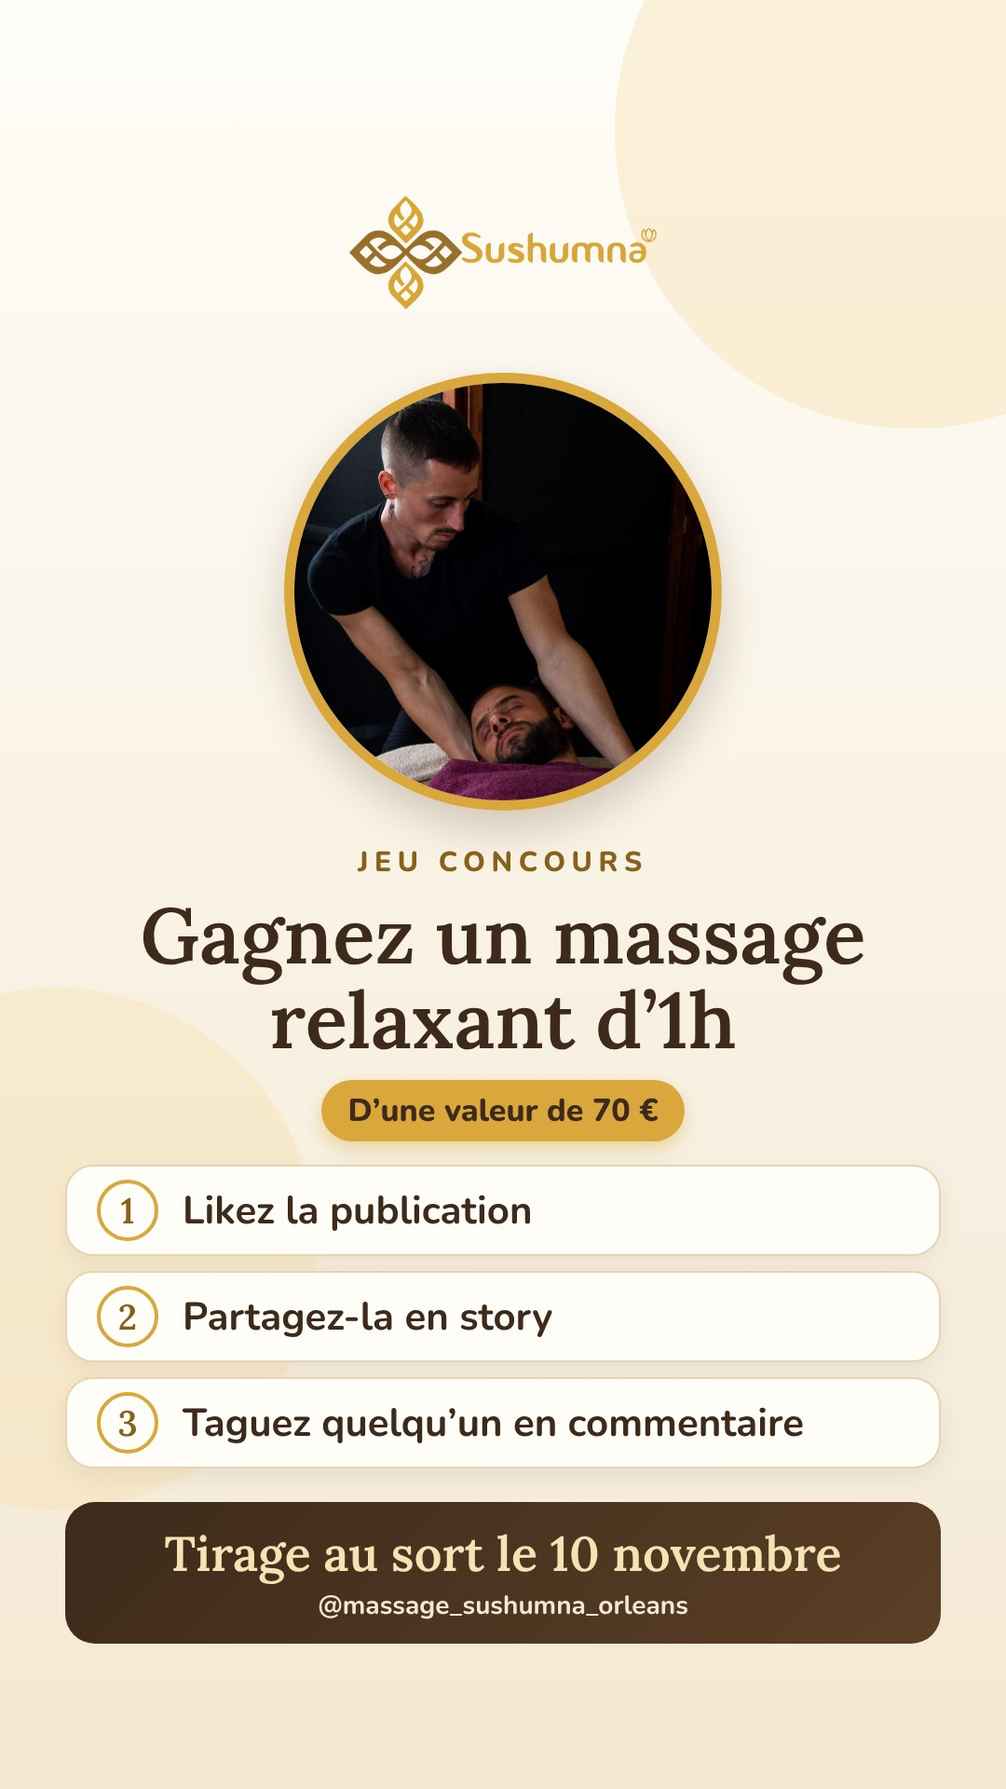
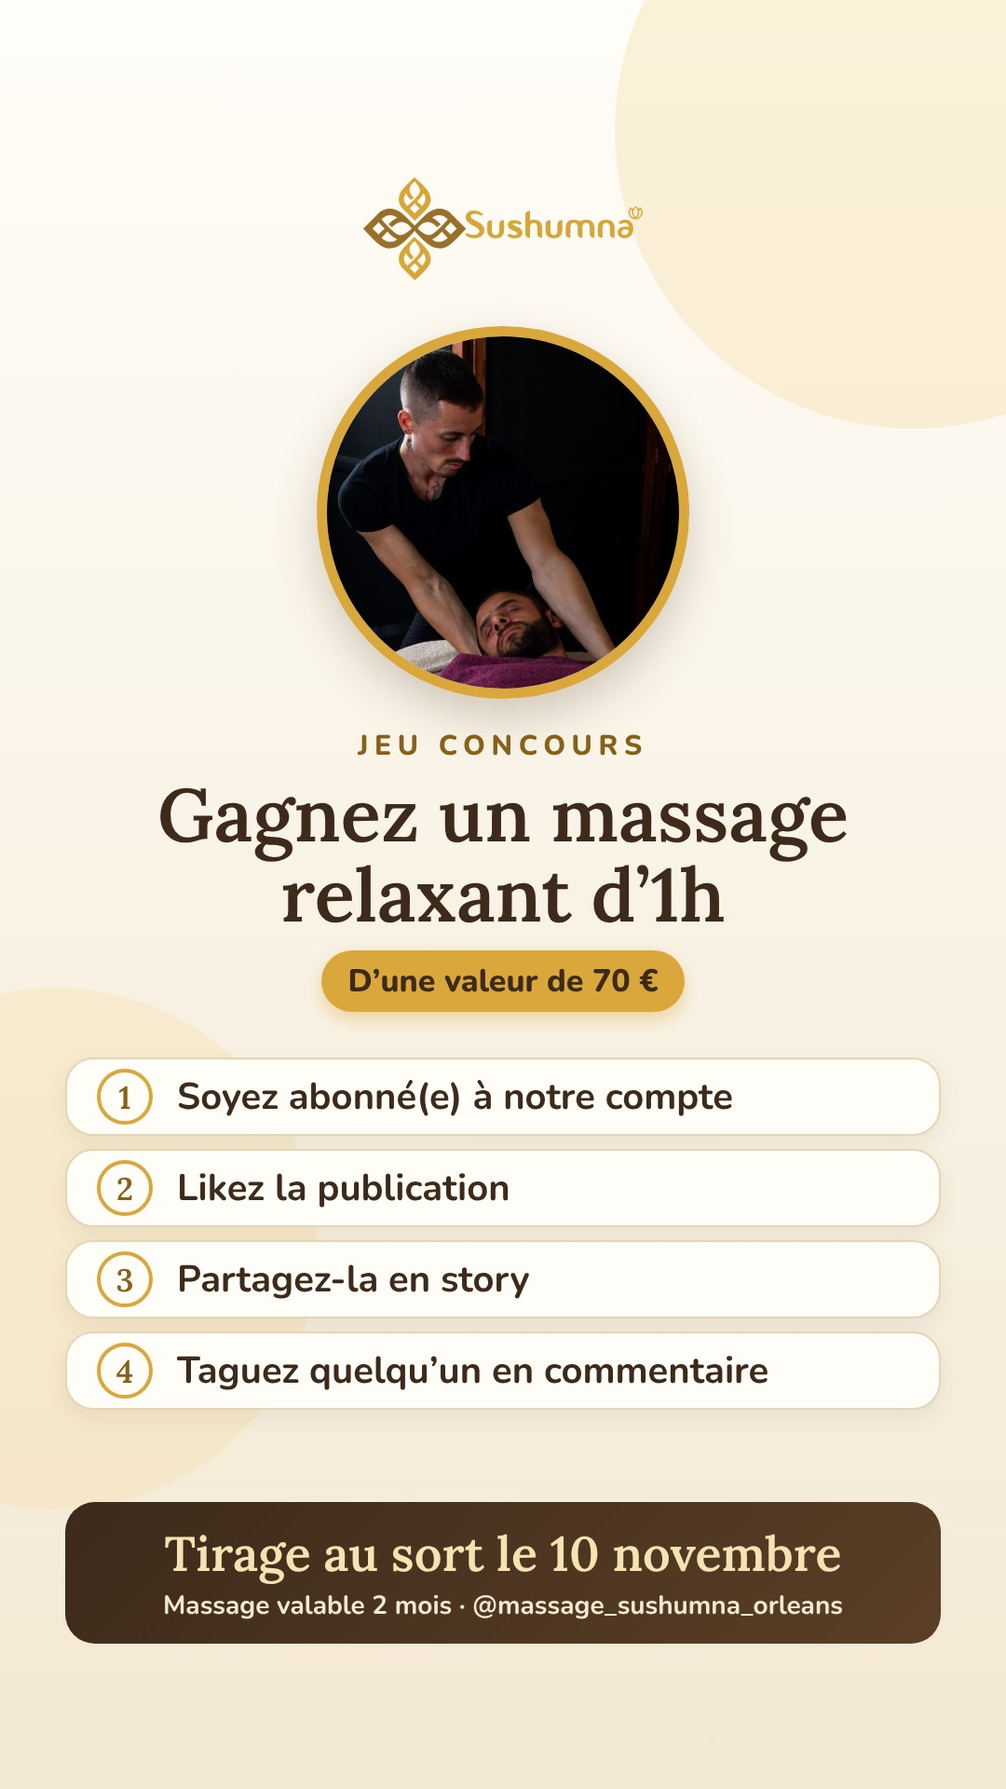
Jeu concours : règle d'abonnement, validité 2 mois sur les visuels, règlement complet
Claude-Session: https://claude.ai/code/session_01FhKW6d7NffjTyYvYf6zG3G

Changed region(s): [[0.0611, 0.0938, 0.9472, 0.8438], [0.1528, 0.875, 0.7333, 0.9062], [0.7639, 0.875, 0.825, 0.9062]]

diff --git a/graphisme/generer.js b/graphisme/generer.js
@@ -1026,7 +1026,8 @@ PAGES.push({
 const CONCOURS = {
   lot: 'Gagnez un massage relaxant d’1h',
   valeur: euros(PRIX_SEANCES.find((t) => t.duree === '1h' && !t.massage).prix),
-  regles: ['Likez la publication', 'Partagez-la en story', 'Taguez quelqu’un en commentaire'],
+  regles: ['Soyez abonné(e) à notre compte', 'Likez la publication', 'Partagez-la en story', 'Taguez quelqu’un en commentaire'],
+  validite: 'Massage valable 2 mois',
   tirage: 'Tirage au sort le 10 novembre',
 };
 PAGES.push({
@@ -1041,13 +1042,13 @@ PAGES.push({
 .surtitre{font-size:26px}
 .titre{font-family:var(--titres);font-weight:600;font-size:62px;line-height:1.08;margin:12px 0 16px;color:var(--brun)}
 .valeur{display:inline-block;background:var(--or);color:var(--brun);font-weight:800;font-size:28px;padding:8px 22px;border-radius:999px;box-shadow:0 8px 18px rgba(217,167,59,.4)}
-.regles{position:absolute;left:70px;right:70px;top:488px}
-.regles h2{font-family:var(--titres);font-weight:600;font-size:36px;margin:0 0 14px;color:var(--or-texte);text-align:left}
-.regle{display:flex;align-items:center;gap:26px;background:var(--creme);border:2px solid var(--bordure);border-radius:28px;padding:9px 30px;margin-bottom:13px;box-shadow:0 8px 22px rgba(92,67,48,.08);text-align:left}
-.regle .n{width:56px;height:56px;border-radius:50%;border:4px solid var(--or);background:var(--creme);display:flex;align-items:center;justify-content:center;font-family:var(--titres);font-weight:600;font-size:34px;color:var(--or-texte);flex:none}
-.regle span{font-size:38px;font-weight:700;color:var(--brun)}
-.tirage{position:absolute;left:70px;right:70px;bottom:48px;background:linear-gradient(135deg,var(--brun) 0%,#5b3f26 100%);border-radius:30px;padding:16px 20px;text-align:center}
-.tirage b{display:block;font-family:var(--titres);font-weight:600;font-size:46px;color:var(--or-clair)}
+.regles{position:absolute;left:70px;right:70px;top:468px}
+.regles h2{font-family:var(--titres);font-weight:600;font-size:34px;margin:0 0 10px;color:var(--or-texte);text-align:left}
+.regle{display:flex;align-items:center;gap:26px;background:var(--creme);border:2px solid var(--bordure);border-radius:28px;padding:6px 30px;margin-bottom:10px;box-shadow:0 8px 22px rgba(92,67,48,.08);text-align:left}
+.regle .n{width:50px;height:50px;border-radius:50%;border:4px solid var(--or);background:var(--creme);display:flex;align-items:center;justify-content:center;font-family:var(--titres);font-weight:600;font-size:34px;color:var(--or-texte);flex:none}
+.regle span{font-size:36px;font-weight:700;color:var(--brun)}
+.tirage{position:absolute;left:70px;right:70px;bottom:36px;background:linear-gradient(135deg,var(--brun) 0%,#5b3f26 100%);border-radius:30px;padding:12px 20px;text-align:center}
+.tirage b{display:block;font-family:var(--titres);font-weight:600;font-size:44px;color:var(--or-clair)}
 .tirage span{display:block;margin-top:4px;font-size:26px;color:#f3e8d3;font-weight:700}`,
     body: `<div class="page">
   <div class="deco" style="width:520px;height:520px;right:-170px;top:-150px"></div>
@@ -1056,7 +1057,7 @@ PAGES.push({
   <div class="photo"><img src="file://${path.join(DOSSIER, '..', 'photos', 'massage-relaxant.jpg')}" alt=""></div>
   <div class="texte"><p class="surtitre">Jeu concours</p><h1 class="titre">${CONCOURS.lot}</h1><span class="valeur">D’une valeur de ${CONCOURS.valeur}</span></div>
   <div class="regles"><h2>Pour participer</h2>${CONCOURS.regles.map((r, i) => `<div class="regle"><div class="n">${i + 1}</div><span>${r}</span></div>`).join('')}</div>
-  <div class="tirage"><b>${CONCOURS.tirage}</b><span>${CONTACT.insta}</span></div>
+  <div class="tirage"><b>${CONCOURS.tirage}</b><span>${CONCOURS.validite} · ${CONTACT.insta}</span></div>
 </div>` }),
 });
 
@@ -1066,17 +1067,17 @@ PAGES.push({
   html: document_({ w: 1080, h: 1920,
     css: `.page{display:block;background:linear-gradient(180deg,var(--creme) 0%,var(--sable-2) 100%)}
 .deco{position:absolute;border-radius:50%;background:#f6e3b4;opacity:.45}
-.logo{position:absolute;left:50%;top:210px;transform:translateX(-50%);width:330px;height:auto}
-.photo{position:absolute;left:50%;top:400px;transform:translateX(-50%);width:470px;height:470px;border-radius:50%;overflow:hidden;border:11px solid var(--or);box-shadow:0 20px 46px rgba(92,67,48,.25)}
+.logo{position:absolute;left:50%;top:190px;transform:translateX(-50%);width:300px;height:auto}
+.photo{position:absolute;left:50%;top:350px;transform:translateX(-50%);width:400px;height:400px;border-radius:50%;overflow:hidden;border:11px solid var(--or);box-shadow:0 20px 46px rgba(92,67,48,.25)}
 .photo img{width:100%;height:100%;object-fit:cover;object-position:center 38%}
-.texte{position:absolute;left:70px;right:70px;top:905px;text-align:center}
+.texte{position:absolute;left:70px;right:70px;top:780px;text-align:center}
 .surtitre{font-size:30px}
-.titre{font-family:var(--titres);font-weight:600;font-size:84px;line-height:1.08;margin:12px 0 20px;color:var(--brun)}
+.titre{font-family:var(--titres);font-weight:600;font-size:80px;line-height:1.08;margin:10px 0 16px;color:var(--brun)}
 .valeur{display:inline-block;background:var(--or);color:var(--brun);font-weight:800;font-size:34px;padding:10px 28px;border-radius:999px;box-shadow:0 8px 18px rgba(217,167,59,.4)}
-.regles{position:absolute;left:70px;right:70px;top:1250px}
-.regle{display:flex;align-items:center;gap:26px;background:var(--creme);border:2px solid var(--bordure);border-radius:30px;padding:14px 32px;margin-bottom:16px;box-shadow:0 8px 22px rgba(92,67,48,.08);text-align:left}
-.regle .n{width:66px;height:66px;border-radius:50%;border:4px solid var(--or);background:var(--creme);display:flex;align-items:center;justify-content:center;font-family:var(--titres);font-weight:600;font-size:38px;color:var(--or-texte);flex:none}
-.regle span{font-size:42px;font-weight:700;color:var(--brun)}
+.regles{position:absolute;left:70px;right:70px;top:1135px}
+.regle{display:flex;align-items:center;gap:26px;background:var(--creme);border:2px solid var(--bordure);border-radius:30px;padding:10px 32px;margin-bottom:14px;box-shadow:0 8px 22px rgba(92,67,48,.08);text-align:left}
+.regle .n{width:60px;height:60px;border-radius:50%;border:4px solid var(--or);background:var(--creme);display:flex;align-items:center;justify-content:center;font-family:var(--titres);font-weight:600;font-size:34px;color:var(--or-texte);flex:none}
+.regle span{font-size:40px;font-weight:700;color:var(--brun)}
 .tirage{position:absolute;left:70px;right:70px;top:1612px;background:linear-gradient(135deg,var(--brun) 0%,#5b3f26 100%);border-radius:32px;padding:22px 20px;text-align:center}
 .tirage b{display:block;font-family:var(--titres);font-weight:600;font-size:52px;color:var(--or-clair)}
 .tirage span{display:block;margin-top:4px;font-size:28px;color:#f3e8d3;font-weight:700}`,
@@ -1087,7 +1088,7 @@ PAGES.push({
   <div class="photo"><img src="file://${path.join(DOSSIER, '..', 'photos', 'massage-relaxant.jpg')}" alt=""></div>
   <div class="texte"><p class="surtitre">Jeu concours</p><h1 class="titre">${CONCOURS.lot}</h1><span class="valeur">D’une valeur de ${CONCOURS.valeur}</span></div>
   <div class="regles">${CONCOURS.regles.map((r, i) => `<div class="regle"><div class="n">${i + 1}</div><span>${r}</span></div>`).join('')}</div>
-  <div class="tirage"><b>${CONCOURS.tirage}</b><span>${CONTACT.insta}</span></div>
+  <div class="tirage"><b>${CONCOURS.tirage}</b><span>${CONCOURS.validite} · ${CONTACT.insta}</span></div>
 </div>` }),
 });
 
@@ -1112,6 +1113,7 @@ PAGES.push({
 .prix{display:flex;justify-content:space-between;align-items:center;background:#fff8e6;border:2px solid var(--or);border-radius:28px;padding:18px 40px;margin-top:6px}
 .prix span{font-size:38px;font-weight:700;color:var(--brun)}
 .prix b{font-family:var(--titres);font-weight:600;font-size:56px;color:var(--or-texte)}
+.valide{margin:14px 0 0;text-align:center;font-size:32px;font-weight:800;color:var(--or-texte)}
 .pied-story{margin-top:44px;width:260px;height:auto;align-self:center}`,
     body: `<div class="entete-photo"><img src="file://${path.join(DOSSIER, '..', 'photos', 'massage-relaxant.jpg')}" alt=""></div>
 <span class="badge">🎁 Le lot à gagner</span>
@@ -1122,6 +1124,7 @@ PAGES.push({
   <div class="bloc"><h3>Pour qui</h3><p>${relaxant.pourQui}</p></div>
   <div class="bloc"><h3>Ce que ça apporte</h3><ul>${relaxant.apporte.map((a) => `<li>${a}</li>`).join('')}</ul></div>
   <div class="prix"><span>Durée : 1h</span><b>${CONCOURS.valeur}</b></div>
+  <p class="valide">${CONCOURS.validite} à compter du tirage</p>
   <img class="pied-story" src="${LOGO_URL}" alt="Sushumna">
 </div>` }),
 });

diff --git a/graphisme/sources/69-story-concours.html b/graphisme/sources/69-story-concours.html
@@ -21,17 +21,17 @@ body{width:var(--w);height:var(--h);overflow:hidden;background:var(--creme);colo
 .sous{margin:0;color:var(--brun-doux)}
 .page{display:block;background:linear-gradient(180deg,var(--creme) 0%,var(--sable-2) 100%)}
 .deco{position:absolute;border-radius:50%;background:#f6e3b4;opacity:.45}
-.logo{position:absolute;left:50%;top:210px;transform:translateX(-50%);width:330px;height:auto}
-.photo{position:absolute;left:50%;top:400px;transform:translateX(-50%);width:470px;height:470px;border-radius:50%;overflow:hidden;border:11px solid var(--or);box-shadow:0 20px 46px rgba(92,67,48,.25)}
+.logo{position:absolute;left:50%;top:190px;transform:translateX(-50%);width:300px;height:auto}
+.photo{position:absolute;left:50%;top:350px;transform:translateX(-50%);width:400px;height:400px;border-radius:50%;overflow:hidden;border:11px solid var(--or);box-shadow:0 20px 46px rgba(92,67,48,.25)}
 .photo img{width:100%;height:100%;object-fit:cover;object-position:center 38%}
-.texte{position:absolute;left:70px;right:70px;top:905px;text-align:center}
+.texte{position:absolute;left:70px;right:70px;top:780px;text-align:center}
 .surtitre{font-size:30px}
-.titre{font-family:var(--titres);font-weight:600;font-size:84px;line-height:1.08;margin:12px 0 20px;color:var(--brun)}
+.titre{font-family:var(--titres);font-weight:600;font-size:80px;line-height:1.08;margin:10px 0 16px;color:var(--brun)}
 .valeur{display:inline-block;background:var(--or);color:var(--brun);font-weight:800;font-size:34px;padding:10px 28px;border-radius:999px;box-shadow:0 8px 18px rgba(217,167,59,.4)}
-.regles{position:absolute;left:70px;right:70px;top:1250px}
-.regle{display:flex;align-items:center;gap:26px;background:var(--creme);border:2px solid var(--bordure);border-radius:30px;padding:14px 32px;margin-bottom:16px;box-shadow:0 8px 22px rgba(92,67,48,.08);text-align:left}
-.regle .n{width:66px;height:66px;border-radius:50%;border:4px solid var(--or);background:var(--creme);display:flex;align-items:center;justify-content:center;font-family:var(--titres);font-weight:600;font-size:38px;color:var(--or-texte);flex:none}
-.regle span{font-size:42px;font-weight:700;color:var(--brun)}
+.regles{position:absolute;left:70px;right:70px;top:1135px}
+.regle{display:flex;align-items:center;gap:26px;background:var(--creme);border:2px solid var(--bordure);border-radius:30px;padding:10px 32px;margin-bottom:14px;box-shadow:0 8px 22px rgba(92,67,48,.08);text-align:left}
+.regle .n{width:60px;height:60px;border-radius:50%;border:4px solid var(--or);background:var(--creme);display:flex;align-items:center;justify-content:center;font-family:var(--titres);font-weight:600;font-size:34px;color:var(--or-texte);flex:none}
+.regle span{font-size:40px;font-weight:700;color:var(--brun)}
 .tirage{position:absolute;left:70px;right:70px;top:1612px;background:linear-gradient(135deg,var(--brun) 0%,#5b3f26 100%);border-radius:32px;padding:22px 20px;text-align:center}
 .tirage b{display:block;font-family:var(--titres);font-weight:600;font-size:52px;color:var(--or-clair)}
 .tirage span{display:block;margin-top:4px;font-size:28px;color:#f3e8d3;font-weight:700}</style>
@@ -59,8 +59,8 @@ body{width:var(--w);height:var(--h);overflow:hidden;background:var(--creme);colo
   <img class="logo" src="file:///home/user/sitesushumna/graphisme/assets/logo-hd.png" alt="Sushumna">
   <div class="photo"><img src="file:///home/user/sitesushumna/photos/massage-relaxant.jpg" alt=""></div>
   <div class="texte"><p class="surtitre">Jeu concours</p><h1 class="titre">Gagnez un massage relaxant d’1h</h1><span class="valeur">D’une valeur de 70 €</span></div>
-  <div class="regles"><div class="regle"><div class="n">1</div><span>Likez la publication</span></div><div class="regle"><div class="n">2</div><span>Partagez-la en story</span></div><div class="regle"><div class="n">3</div><span>Taguez quelqu’un en commentaire</span></div></div>
-  <div class="tirage"><b>Tirage au sort le 10 novembre</b><span>@massage_sushumna_orleans</span></div>
+  <div class="regles"><div class="regle"><div class="n">1</div><span>Soyez abonné(e) à notre compte</span></div><div class="regle"><div class="n">2</div><span>Likez la publication</span></div><div class="regle"><div class="n">3</div><span>Partagez-la en story</span></div><div class="regle"><div class="n">4</div><span>Taguez quelqu’un en commentaire</span></div></div>
+  <div class="tirage"><b>Tirage au sort le 10 novembre</b><span>Massage valable 2 mois · @massage_sushumna_orleans</span></div>
 </div>
 </body>
 </html>

diff --git a/graphisme/sources/68-concours-massage-relaxant.html b/graphisme/sources/68-concours-massage-relaxant.html
@@ -28,13 +28,13 @@ body{width:var(--w);height:var(--h);overflow:hidden;background:var(--creme);colo
 .surtitre{font-size:26px}
 .titre{font-family:var(--titres);font-weight:600;font-size:62px;line-height:1.08;margin:12px 0 16px;color:var(--brun)}
 .valeur{display:inline-block;background:var(--or);color:var(--brun);font-weight:800;font-size:28px;padding:8px 22px;border-radius:999px;box-shadow:0 8px 18px rgba(217,167,59,.4)}
-.regles{position:absolute;left:70px;right:70px;top:488px}
-.regles h2{font-family:var(--titres);font-weight:600;font-size:36px;margin:0 0 14px;color:var(--or-texte);text-align:left}
-.regle{display:flex;align-items:center;gap:26px;background:var(--creme);border:2px solid var(--bordure);border-radius:28px;padding:9px 30px;margin-bottom:13px;box-shadow:0 8px 22px rgba(92,67,48,.08);text-align:left}
-.regle .n{width:56px;height:56px;border-radius:50%;border:4px solid var(--or);background:var(--creme);display:flex;align-items:center;justify-content:center;font-family:var(--titres);font-weight:600;font-size:34px;color:var(--or-texte);flex:none}
-.regle span{font-size:38px;font-weight:700;color:var(--brun)}
-.tirage{position:absolute;left:70px;right:70px;bottom:48px;background:linear-gradient(135deg,var(--brun) 0%,#5b3f26 100%);border-radius:30px;padding:16px 20px;text-align:center}
-.tirage b{display:block;font-family:var(--titres);font-weight:600;font-size:46px;color:var(--or-clair)}
+.regles{position:absolute;left:70px;right:70px;top:468px}
+.regles h2{font-family:var(--titres);font-weight:600;font-size:34px;margin:0 0 10px;color:var(--or-texte);text-align:left}
+.regle{display:flex;align-items:center;gap:26px;background:var(--creme);border:2px solid var(--bordure);border-radius:28px;padding:6px 30px;margin-bottom:10px;box-shadow:0 8px 22px rgba(92,67,48,.08);text-align:left}
+.regle .n{width:50px;height:50px;border-radius:50%;border:4px solid var(--or);background:var(--creme);display:flex;align-items:center;justify-content:center;font-family:var(--titres);font-weight:600;font-size:34px;color:var(--or-texte);flex:none}
+.regle span{font-size:36px;font-weight:700;color:var(--brun)}
+.tirage{position:absolute;left:70px;right:70px;bottom:36px;background:linear-gradient(135deg,var(--brun) 0%,#5b3f26 100%);border-radius:30px;padding:12px 20px;text-align:center}
+.tirage b{display:block;font-family:var(--titres);font-weight:600;font-size:44px;color:var(--or-clair)}
 .tirage span{display:block;margin-top:4px;font-size:26px;color:#f3e8d3;font-weight:700}</style>
 </head>
 <body style="--w:1080px;--h:1080px">
@@ -60,8 +60,8 @@ body{width:var(--w);height:var(--h);overflow:hidden;background:var(--creme);colo
   <img class="logo" src="file:///home/user/sitesushumna/graphisme/assets/logo-hd.png" alt="Sushumna">
   <div class="photo"><img src="file:///home/user/sitesushumna/photos/massage-relaxant.jpg" alt=""></div>
   <div class="texte"><p class="surtitre">Jeu concours</p><h1 class="titre">Gagnez un massage relaxant d’1h</h1><span class="valeur">D’une valeur de 70 €</span></div>
-  <div class="regles"><h2>Pour participer</h2><div class="regle"><div class="n">1</div><span>Likez la publication</span></div><div class="regle"><div class="n">2</div><span>Partagez-la en story</span></div><div class="regle"><div class="n">3</div><span>Taguez quelqu’un en commentaire</span></div></div>
-  <div class="tirage"><b>Tirage au sort le 10 novembre</b><span>@massage_sushumna_orleans</span></div>
+  <div class="regles"><h2>Pour participer</h2><div class="regle"><div class="n">1</div><span>Soyez abonné(e) à notre compte</span></div><div class="regle"><div class="n">2</div><span>Likez la publication</span></div><div class="regle"><div class="n">3</div><span>Partagez-la en story</span></div><div class="regle"><div class="n">4</div><span>Taguez quelqu’un en commentaire</span></div></div>
+  <div class="tirage"><b>Tirage au sort le 10 novembre</b><span>Massage valable 2 mois · @massage_sushumna_orleans</span></div>
 </div>
 </body>
 </html>

diff --git a/graphisme/sources/70-story-concours-le-lot.html b/graphisme/sources/70-story-concours-le-lot.html
@@ -36,6 +36,7 @@ body{width:var(--w);height:var(--h);overflow:hidden;background:var(--creme);colo
 .prix{display:flex;justify-content:space-between;align-items:center;background:#fff8e6;border:2px solid var(--or);border-radius:28px;padding:18px 40px;margin-top:6px}
 .prix span{font-size:38px;font-weight:700;color:var(--brun)}
 .prix b{font-family:var(--titres);font-weight:600;font-size:56px;color:var(--or-texte)}
+.valide{margin:14px 0 0;text-align:center;font-size:32px;font-weight:800;color:var(--or-texte)}
 .pied-story{margin-top:44px;width:260px;height:auto;align-self:center}</style>
 </head>
 <body style="--w:1080px;--h:1920px">
@@ -64,6 +65,7 @@ body{width:var(--w);height:var(--h);overflow:hidden;background:var(--creme);colo
   <div class="bloc"><h3>Pour qui</h3><p>Idéal dans une période de stress ou de fatigue. C'est aussi un très bon choix pour un tout premier massage.</p></div>
   <div class="bloc"><h3>Ce que ça apporte</h3><ul><li>Une détente des muscles et des articulations</li><li>Un apaisement des émotions</li><li>Un vrai moment de calme, rien que pour vous</li></ul></div>
   <div class="prix"><span>Durée : 1h</span><b>70 €</b></div>
+  <p class="valide">Massage valable 2 mois à compter du tirage</p>
   <img class="pied-story" src="file:///home/user/sitesushumna/graphisme/assets/logo-hd.png" alt="Sushumna">
 </div></div>
 </body>

diff --git a/graphisme/reglement-jeu-concours.md b/graphisme/reglement-jeu-concours.md
@@ -1,0 +1,54 @@
+# Règlement du jeu concours Instagram – Sushumna
+
+> Modèle de règlement à adapter. Les passages entre crochets [ ] sont à vérifier ou à compléter avant publication.
+> Ce texte n'est pas un conseil juridique : en cas de doute, faites-le relire.
+
+## Article 1 – Organisateur
+
+Le jeu concours gratuit « Gagnez un massage relaxant d'1h » est organisé par Maxence Vaz – Sushumna, 4 cours Victor Hugo, 45100 Orléans, SIRET 842 561 243 00010 (ci-après « l'organisateur »), sur le compte Instagram @massage_sushumna_orleans.
+
+## Article 2 – Durée
+
+Le jeu débute le [date de publication] et se termine le 10 novembre 2026 à [heure, par exemple 20h00]. Le tirage au sort a lieu le 10 novembre 2026.
+
+## Article 3 – Participation
+
+Le jeu est gratuit et sans obligation d'achat. Il est ouvert à toute personne physique majeure [résidant en France métropolitaine], à l'exception de l'organisateur et de ses proches.
+
+Pour participer, il faut remplir toutes les conditions suivantes :
+1. être abonné(e) au compte @massage_sushumna_orleans ;
+2. aimer la publication du jeu concours ;
+3. partager la publication en story, en identifiant @massage_sushumna_orleans (le compte du participant doit être public au moment du tirage pour que la story puisse être vérifiée) ;
+4. identifier au moins une personne en commentaire de la publication.
+
+Une seule participation par personne est prise en compte. Commenter plusieurs fois ou identifier plusieurs personnes n'augmente pas les chances de gagner. Toute participation incomplète, tardive ou frauduleuse est exclue.
+
+## Article 4 – Lot
+
+Le lot est un massage relaxant d'une durée d'1h, d'une valeur de 70 €, à utiliser au Studio Sushumna, 4 cours Victor Hugo, 45100 Orléans, sur rendez-vous.
+
+Le lot est valable 2 mois à compter du tirage au sort. Passé ce délai, il est perdu et ne donne lieu à aucune compensation. Il est personnel, non échangeable contre un autre massage, un autre produit ou une somme d'argent, et non remboursable. Le massage bien-être est un moment de détente : ce n'est pas un acte médical, et les contre-indications indiquées sur le site massage-sushumna.com s'appliquent.
+
+## Article 5 – Désignation du gagnant
+
+Un(e) gagnant(e) est tiré(e) au sort le 10 novembre 2026 parmi les participants ayant rempli toutes les conditions. Le tirage est effectué [à la main / avec un outil de tirage au sort en ligne].
+
+Le ou la gagnant(e) est annoncé(e) en story sur le compte @massage_sushumna_orleans et contacté(e) par message privé. Sans réponse dans un délai de [7 jours], le lot est remis en jeu et un(e) nouveau(elle) gagnant(e) est tiré(e) au sort.
+
+## Article 6 – Instagram
+
+Ce jeu concours n'est ni géré, ni parrainé, ni associé à Instagram ou à Meta. Les informations communiquées par les participants sont destinées à l'organisateur et non à Instagram. Instagram ne pourra être tenu pour responsable en cas de litige.
+
+## Article 7 – Données personnelles
+
+Les données des participants (nom de compte Instagram, et coordonnées du gagnant pour organiser le massage) sont utilisées uniquement pour la gestion du jeu et la remise du lot. Elles ne sont jamais transmises à des tiers et sont supprimées [3 mois] après la fin du jeu, sauf pour le gagnant, le temps de réaliser le massage.
+
+Chaque participant peut consulter, faire modifier ou supprimer ses données sur simple demande, par message privé ou au 07 50 46 01 10.
+
+## Article 8 – Responsabilité
+
+L'organisateur se réserve le droit de modifier, de prolonger, de reporter ou d'annuler le jeu si les circonstances l'exigent, sans que sa responsabilité puisse être engagée. Il n'est pas responsable d'un dysfonctionnement d'Instagram ou du réseau qui empêcherait de participer. Toute fraude entraîne l'exclusion du participant.
+
+## Article 9 – Acceptation du règlement
+
+La participation au jeu implique l'acceptation pleine et entière du présent règlement. Il est consultable à tout moment sur demande par message privé, [et dans la bio du compte / sur le site massage-sushumna.com].
